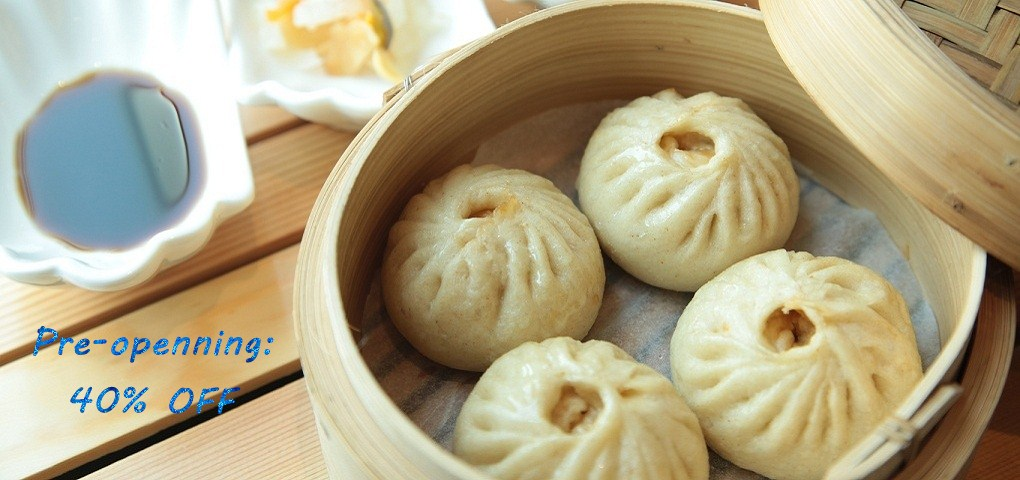
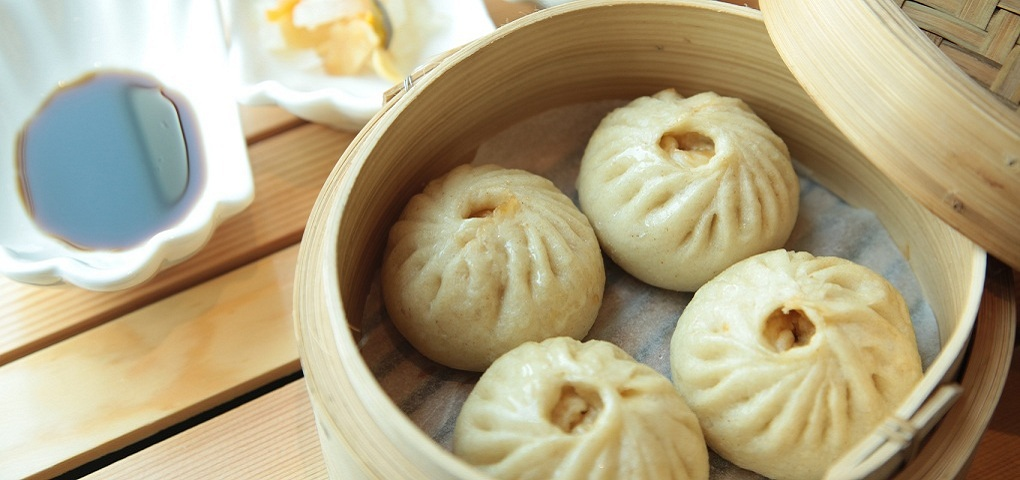
Reajust "ORDER NOW" and move discount 30% from picture to text.

Changed region(s): [[0.0304, 0.6562, 0.2735, 0.75], [0.0608, 0.7812, 0.2431, 0.875]]

diff --git a/panda/templates/homepage/home.html b/panda/templates/homepage/home.html
@@ -51,17 +51,17 @@
 					<nav class="menu">
 						<div class="icon-list">
 							<a class="scroll active" href="#agilehome"><i class="fa fa-home"></i><span>Home</span></a>
-							<a class="scroll" href="#sl3waboutstia"><i class="fa fa-info"></i><span>{% trans "About" %}</span></a>
 							<a  href="{% url 'promotion' %}"><i class="fa fa-birthday-cake"></i><span>{% trans "On Sale" %}</span></a>
 						    <a  href="{% url 'catalogue:index' %}"><i class="fa fa-picture-o"></i><span>{% trans "All Products" %}</span></a>
+							<a href="{% url 'basket:summary' %}"><i class="fa fa-picture-o"></i><span>{% trans "View Basket" %}</span></a>
 							<!--
-							<a class="scroll" href="#portfolio"><i class="fa fa-picture-o"></i><span>Portfolio</span></a>
 							<a class="scroll" href="#w3lsstatsaits"><i class="fa fa-bar-chart"></i><span>Stats</span></a>
 							<a class="scroll" href="#chefw3agile"><i class="fa fa-user"></i><span>Chefs</span></a>
 							<a class="scroll" href="#agileinfofeedback"><i class="fa fa-comment-o"></i><span>Feedback</span></a>
 
 							<a class="scroll" href="#newsletter"><i class="fa fa-envelope-o"></i><span>Subscribe</span></a>
 							                      -->
+							<a class="scroll" href="#sl3waboutstia"><i class="fa fa-info"></i><span>{% trans "About" %}</span></a>
 							<a class="scroll" href="#aitscontactw3l"><i class="fa fa-phone"></i><span>Contact</span></a>
 						</div>
 					</nav>
@@ -138,7 +138,7 @@
 					<a href="/en-gb/about/" target="_blank"> <big>More Info</big></a>
 
 					<div class="w3-button">
-						<a  href="{% url 'promotion' %}">Order Now</a>
+					<a class="btn btn-default" href="{% url 'promotion' %}">{% trans "Order Now - 30% OFF" %}</a>
 					</div>
 				</div>
 

diff --git a/panda/static/home/css/style.css b/panda/static/home/css/style.css
@@ -214,7 +214,6 @@ ul.callbacks_tabs {
     text-decoration: none;
     margin: 0;
 	font-size: 1.3em;
-    border: 2px solid #FFC107;
 	background:none;
 	font-weight: 700;
     text-transform: uppercase;
